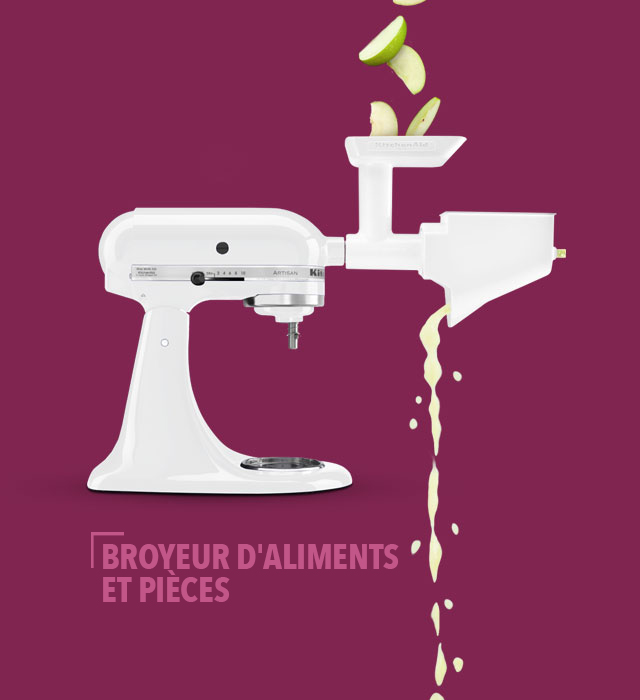
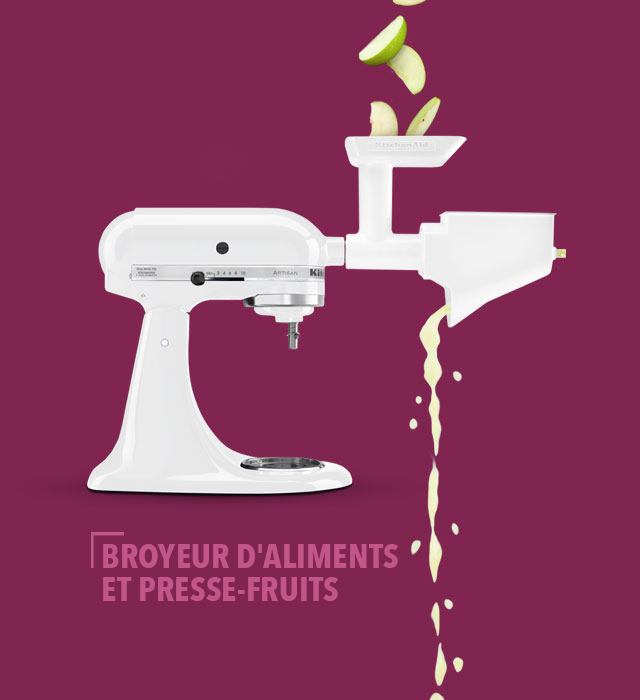
Updated Images

Changed region(s): [[0.25, 0.78, 0.5312, 0.87], [0.1875, 0.78, 0.2188, 0.81]]

diff --git a/fr/index_mobile.html b/fr/index_mobile.html
@@ -154,7 +154,7 @@
 						<div>
 							<p>CONSEIL DU CHEF JOHN CIRLLO :</p>
 						</div>
-						<p>&laquo; Assurez-vous que votre p&acirc;te n'est pas trop molle, sinon, elle pourrait coller. La temp&eacute;rature id&eacute;ale de cuisson des p&acirc;tes est de 212 &deg;F, ce qui correspond &agrave; une &eacute;bullition vive &raquo;.</p>
+						<p>&laquo; Assurez-vous que votre p&acirc;te n'est pas trop molle, sinon, elle pourrait coller. La temp&eacute;rature id&eacute;ale de cuisson des p&acirc;tes est de 212 &deg;F, ce qui correspond &agrave; une &eacute;bullition vive. &raquo;</p>
 						<ul>
 							<li>ID&Eacute;AL POUR</li>
 							<li>Les fromage rap&eacute;</li>
@@ -309,13 +309,13 @@
 						<div>
 							<p>CONSEIL DE CARMEL, EXPERTE KITCHENAID :</p>
 						</div>
-						<p>&laquo;Pour une salsa faite maison, les tomates Roma fermes sont celles qui se tranchent le mieux. Parfois, je blanchis les tomates tr&egrave;s bri&egrave;vement, pas suffisamment pour les cuire, mais juste assez pour pouvoir les peler facilement.&raquo;</p>
-						<ul>
-							<li>ID&Eacute;AL POUR</li>
-							<li>Les lasagnes et raviolis</li>
-							<li>Les p&eacute;rogies, wontons et p&acirc;tisseries</li>
-							<li>Les fettuccines et spaghetti</li>
-						</ul>
+						<p>&laquo; Pour une salsa faite maison, les tomates Roma fermes sont celles qui se tranchent le mieux. Parfois, je blanchis les tomates tr&egrave;s bri&egrave;vement, pas suffisamment pour les cuire, mais juste assez pour pouvoir les peler facilement. &raquo;</p>
+							<ul>
+								<li>ID&Eacute;AL POUR</li>
+								<li>Couper en cubes les oignons et les poivrons</li>
+								<li>R&acirc;per le fromage</li>
+								<li>Couper en juliennes pour les pommes de terre risol&eacute;es</li>
+							</ul>
 					</div>
 				</div>
 				<div class="mobile-content mobile-content-2">
@@ -423,7 +423,7 @@
 
 				</div>
 				<div class="mobile-content mobile-content-2" data-ga-label="Roto Slicer/Shredder">
-					<div class="mobile-copy"><p>BLOC-RÂPEUR/ÉMINCEUR</p><p>Mod&egrave;le #RVSA</p><div></div>Utilisez la puissance de votre batteur sur socle KitchenAid® pour cet accessoire polyvalent. Ce bloc r&acirc;peur/éminceur accélère le broyage des fromages pour les pâtes ou la pizza, le tranchage des légumes pour les sautés ou le râpage des carottes et choux pour les salades. Comprend 2 éminceurs et deux blocs-râpeurs.
+					<div class="mobile-copy"><p>BLOC-R&Acirc;PEUR/&Eacute;MINCEUR</p><p>Mod&egrave;le #RVSA</p><div></div>Utilisez la puissance de votre batteur sur socle KitchenAid<sup>&reg;</sup> pour cet accessoire polyvalent. Ce bloc r&acirc;peur/&eacute;minceur acc&eacute;l&egrave;re le broyage des fromages pour les p&acirc;tes ou la pizza, le tranchage des l&eacute;gumes pour les saut&eacute;s ou le r&acirc;page des carottes et choux pour les salades. Comprend 2 &eacute;minceurs et deux blocs-r&acirc;peurs.
 					<p class="cta"><a href="http://www.kitchenaid.ca/en_CA/shop/-[RVSA]-2101785/RVSA/" data-ga-action="Clicked Specifications Tab">TOUCHEZ POUR ACHETER</a></p>
 					</div>
 				</div>
@@ -433,7 +433,7 @@
 					</div>
 				</div>
 				<div class="mobile-content mobile-content-4" data-ga-label="Strainer & Grinder">
-					<div class="mobile-copy"><p>BROYEUR D'ALIMENTS ET PI&Egrave;CES </p><p>Mod&egrave;le #FVSFGA</p><div></div>Cet outil polyvalent s'attache &agrave; votre batteur sur socle KitchenAid<sup>&reg;</sup> et utilise la puissance de son moteur pour r&eacute;duire les fruits et l&eacute;gumes en pur&eacute;e avec une incroyable facilit&eacute;. La r&acirc;pe rotative enl&egrave;ve la pelure des fruits et l&eacute;gumes et la presse, en combinaison avec le broyeur d'aliments, les r&eacute;duits en une pur&eacute;e fine. Comprend une plaque de broyage fin et une plaque de broyage grossier, ainsi qu'un poussoir pour les aliments. 
+					<div class="mobile-copy"><p>BROYEUR D'ALIMENTS ET PRESSE-FRUITS </p><p>Mod&egrave;le #FVSFGA</p><div></div>Cet outil polyvalent s'attache &agrave; votre batteur sur socle KitchenAid<sup>&reg;</sup> et utilise la puissance de son moteur pour r&eacute;duire les fruits et l&eacute;gumes en pur&eacute;e avec une incroyable facilit&eacute;. La r&acirc;pe rotative enl&egrave;ve la pelure des fruits et l&eacute;gumes et la presse, en combinaison avec le broyeur d'aliments, les r&eacute;duits en une pur&eacute;e fine. Comprend une plaque de broyage fin et une plaque de broyage grossier, ainsi qu'un poussoir pour les aliments. 
 					<p class="cta"><a href="http://www.kitchenaid.ca/en_CA/shop/-[FVSFGA]-2100182/FVSFGA/" data-ga-action="Clicked Specifications Tab">TOUCHEZ POUR ACHETER</a></p>
 					</div>
 				</div>
@@ -620,13 +620,13 @@
 						<div>
 							<p>CONSEIL DE CARMEL, EXPERTE KITCHENAID :</p>
 						</div>
-						<p>&laquo;Gardez la pulpe et ajoutez-la &agrave; des p&acirc;tisseries, sauces pour p&acirc;tes ou pains de viande. Si le jus contient des fruits et l&eacute;gumes, j&rsquo;extrais d'abord le jus des l&eacute;gumes puis je place la pulpe restante dans un sac en plastique et je la cong&egrave;le pour une utilisation ult&eacute;rieure. J&rsquo;extrais ensuite le jus des fruits et je conserve la pulpe dans un sac s&eacute;par&eacute;. Les fruits et l&eacute;gumes sont ainsi s&eacute;par&eacute;s et pr&ecirc;ts pour des utilisations vari&eacute;es.&raquo;</p>
-						<ul>
-							<li>ID&Eacute;AL POUR</li>
-							<li>Les jus</li>
-							<li>Les gel&eacute;es et confitures</li>
-							<li>Les compotes de fruits</li>
-						</ul>
+						<p>&laquo; R&acirc;pez et &eacute;mincez pour deux ou plusieurs recettes &agrave; la fois.  Par exemple, si vous r&acirc;pez des carottes pour confectionner un g&acirc;teau, vous pouvez en m&ecirc;me temps r&acirc;per du chou pour une salade ou &eacute;mincer des pommes de terre pour le d&icirc;ner.  Vous effectuez ainsi plus d'une t&acirc;che et nettoyez une seule fois. &raquo;</p>
+							<ul>
+								<li>ID&Eacute;AL POUR</li>
+								<li>Les fromage rap&eacute;</li>
+							<li>Les pizzas</li>
+							<li>Les noix de coco et les carottes pour les desserts</li>
+							</ul>
 					</div>
 				</div>
 			</div>
@@ -744,7 +744,7 @@
 				<div class="mobile-title small" data-ga-action="Selected Description Tab"><img src="/images/standmixer/mobile-description-small.png"/></div>
 				<div class="mobile-title small hidden"><img src="/images/standmixer/mobile-description-bold-small.png"/></div>
 				<div class="mobile-content mobile-content-1 selected" data-ga-label="Grain Mill Attachment">
-					<div class="mobile-copy"><p>MOULIN &Agrave; GRAIN</p><p>Mod&egrave;le #KGM</p><div></div>Cet accessoire en m&eacute;tal moud le bl&eacute;, l'avoine, le ma&iuml;s, le riz et d'autres grains &agrave; faible teneur en humidit&eacute; et en huile. Utilisez des grains fra&icirc;chement moulus pour ajouter un go&ucirc;t et une texture riches &agrave; vos confections.  Lorsque vous cuisinez avec de la farine moulue &agrave; la maison, vous obtenez tous les bienfaits des grains naturels. La texture peut varier de &laquo; concass&eacute;e &raquo; &agrave; extra-fine. Comprend une brosse de nettoyage.
+					<div class="mobile-copy"><p>MOULIN &Agrave; GRAIN</p><p>Mod&egrave;le #KGM</p><div></div>&laquo;Cet accessoire en m&eacute;tal moud le bl&eacute;, l'avoine, le ma&iuml;s, le riz et d'autres grains &agrave; faible teneur en humidit&eacute; et en huile. Utilisez des grains fra&icirc;chement moulus pour ajouter un go&ucirc;t et une texture riches &agrave; vos confections.  Lorsque vous cuisinez avec de la farine moulue &agrave; la maison, vous obtenez tous les bienfaits des grains naturels. La texture peut varier de &laquo; concass&eacute;e &raquo; &agrave; extra-fine. Comprend une brosse de nettoyage.&raquo;
 					<p class="cta"><a href="http://www.kitchenaid.ca/en_CA/shop/countertop-appliances-1/countertop-appliances-2/stand-mixer-attachments-3/-[KGM]-2100814/KGM/" data-ga-action="Clicked Specifications Tab">TOUCHEZ POUR ACHETER</a></p>
 					</div>
 				</div>

diff --git a/fr/index.html b/fr/index.html
@@ -444,7 +444,7 @@
 
 			<div class="copy" data-id="3"><h4>D&Eacute;COUPEUR EN SPIRALES</h4><p>Mod&egrave;le KSM1APC</p>Que vous recherchiez des fa&ccedil;ons de manger sainement ou des id&eacute;es originales pour explorer la cr&eacute;ativit&eacute; culinaire, le nouvel accessoire de batteur sur socle KitchenAid<sup>&reg;</sup> pour d&eacute;couper en spirale est destin&eacute; &agrave; devenir l'outil pr&eacute;f&eacute;r&eacute; des cuisiniers aventureux. Le d&eacute;coupeur en spirales pour batteur sur socle KitchenAid<sup>&reg;</sup> comprend cinq lames et offre neuf combinaisons pour d&eacute;couper en spirale, trancher, peler et enlever les trognons. Il  est fabriqu&eacute; en m&eacute;tal durable et comprend un &eacute;tui de rangement pratique pour l'unit&eacute; et ses accessoires qui sont lavables au lave-vaisselle.</div>
 
-			<div class="copy" data-id="4"><h4>BROYEUR D'ALIMENTS ET PI&Egrave;CES</h4><p>Mod&egrave;le FVSFGA</p>Cet outil polyvalent s'attache &agrave; votre batteur sur socle KitchenAid<sup>&reg;</sup> et utilise la puissance de son moteur pour r&eacute;duire les fruits et l&eacute;gumes en pur&eacute;e avec une incroyable facilit&eacute;.La r&acirc;pe rotative enl&egrave;ve la pelure des fruits et l&eacute;gumes &#59; tandis que la presse, en combinaison avec le broyeur d’aliments, les r&eacute;duit en une purée fine.  Comprend une plaque de broyage fin et une plaque de broyage grossier, ainsi qu'un poussoir pour les aliments.</div>
+			<div class="copy" data-id="4"><h4>BROYEUR D'ALIMENTS ET PRESSE-FRUITS</h4><p>Mod&egrave;le FVSFGA</p>Cet outil polyvalent s'attache &agrave; votre batteur sur socle KitchenAid<sup>&reg;</sup> et utilise la puissance de son moteur pour r&eacute;duire les fruits et l&eacute;gumes en pur&eacute;e avec une incroyable facilit&eacute;. La r&acirc;pe rotative enl&egrave;ve la pelure des fruits et l&eacute; tandis que la presse, en combinaison avec le broyeur d’aliments, les r&eacute;duit en une pur&eacute;e fine.Comprend une plaque de broyage fin et une plaque de broyage grossier, ainsi qu'un poussoir pour les aliments.</div>
 
 			<div class="available-in">
 				<div>Batteur sur socle offert en</div>
@@ -593,7 +593,7 @@
 				</ul>
 				<div class="content">
 					<div data-id="1" class="info" style="display:block;">
-						<div>
+						<div class="two-line">
 							<p class="title">Broyeur d'aliments et presse-fruits</p>
 							<div class="price">199,99 $</div>
 						</div>
@@ -848,9 +848,9 @@
 							<p>&laquo;Gardez la pulpe et ajoutez-la &agrave; des p&acirc;tisseries, sauces pour p&acirc;tes ou pains de viande. Si le jus contient des fruits et l&eacute;gumes, j&rsquo;extrais d'abord le jus des l&eacute;gumes puis je place la pulpe restante dans un sac en plastique et je la cong&egrave;le pour une utilisation ult&eacute;rieure. J&rsquo;extrais ensuite le jus des fruits et je conserve la pulpe dans un sac s&eacute;par&eacute;. Les fruits et l&eacute;gumes sont ainsi s&eacute;par&eacute;s et pr&ecirc;ts pour des utilisations vari&eacute;es.&raquo;</p>
 							<ul>
                                 <li>ID&Eacute;AL POUR</li>
-                                <li>les jus</li>
-                                <li>les gel&eacute;es et confitures</li>
-                                <li>les compotes de fruits.</li>
+                                <li>Les jus</li>
+                                <li>Les gel&eacute;es et confitures</li>
+                                <li>Les compotes de fruits.</li>
 							</ul>
 						</div>
 					</div>
@@ -887,7 +887,7 @@
 		</div>
 		<div>
 			<h4 class="title">MOULIN &Agrave; GRAIN</h4>
-			<div class="copy selected" data-id="1" style="display:block;"><h4>MOULIN &Agrave; GRAINS</h4><p>Mod&egrave;le KGM</p>Cet accessoire en m&eacute;tal moud le bl&eacute;, l'avoine, le ma&iuml;s, le riz et d'autres grains &agrave; faible teneur en humidit&eacute; et en huile. Utilisez des grains fra&icirc;chement moulus pour ajouter un go&ucirc;t et une texture riches &agrave; vos confections.  Lorsque vous cuisinez avec de la farine moulue &agrave; la maison, vous obtenez tous les bienfaits des grains naturels. La texture peut varier de <br /> &laquo; concass&eacute;e &raquo; &agrave; extra-fine. Comprend une brosse de nettoyage.</div>
+			<div class="copy selected" data-id="1" style="display:block;"><h4>MOULIN &Agrave; GRAINS</h4><p>Mod&egrave;le KGM</p>&laquo;Cet accessoire en m&eacute;tal moud le bl&eacute;, l'avoine, le ma&iuml;s, le riz et d'autres grains &agrave; faible teneur en humidit&eacute; et en huile. Utilisez des grains fra&icirc;chement moulus pour ajouter un go&ucirc;t et une texture riches &agrave; vos confections.  Lorsque vous cuisinez avec de la farine moulue &agrave; la maison, vous obtenez tous les bienfaits des grains naturels. La texture peut varier de <br /> &laquo; concass&eacute;e &raquo; &agrave; extra-fine. Comprend une brosse de nettoyage.&raquo;</div>
 
 			<div class="available-in">
 				<div>Batteur sur socle offert en</div>
